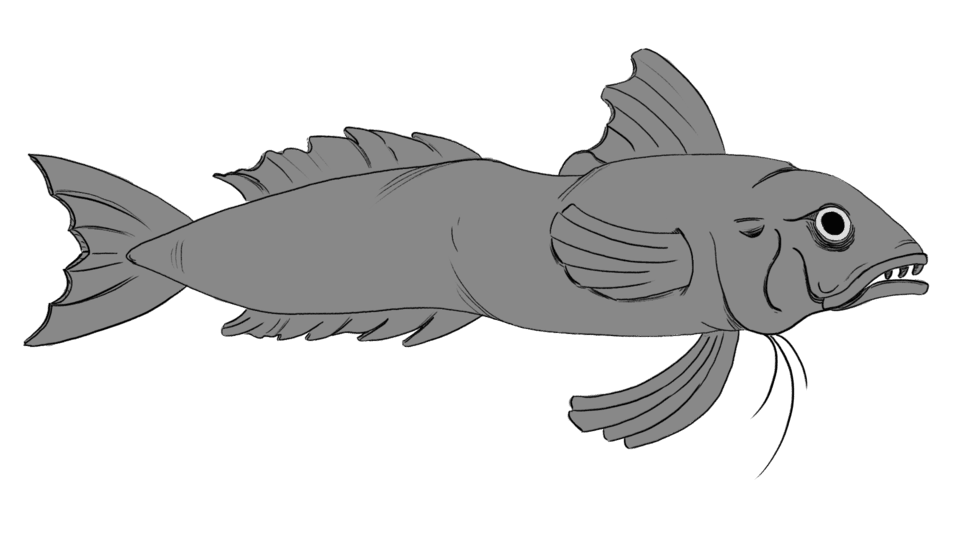
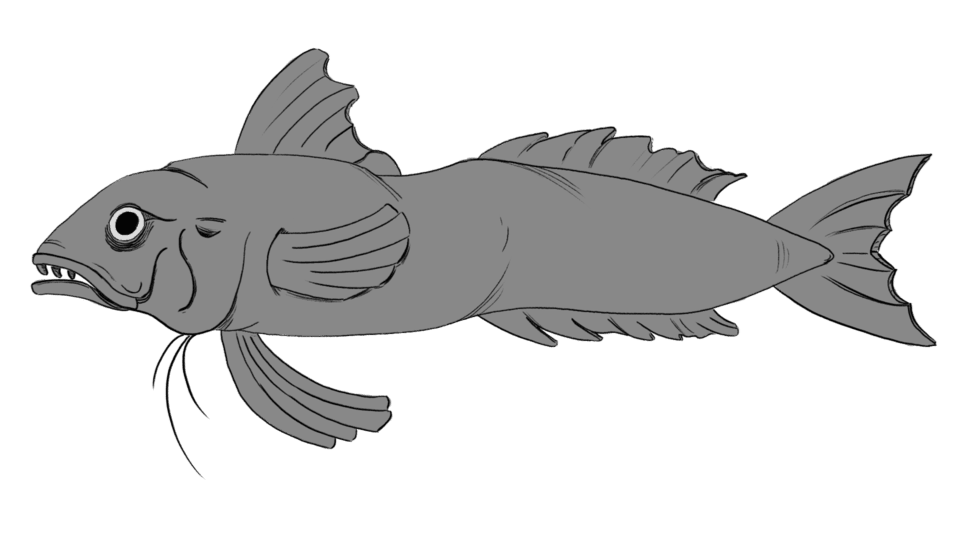
changed fish position

Changed region(s): [[0.0, 0.0889, 1.0, 0.8296], [0.25, 0.4444, 0.2812, 0.5333], [0.7188, 0.4444, 0.75, 0.5037]]

diff --git a/src/scenes/tutorial.js b/src/scenes/tutorial.js
@@ -280,7 +280,7 @@ export default class Tutorial extends Phaser.Scene {
 
     this.fish = this.add.image(
       width / 1.5,
-      height / 3,
+      height / 2.5,
       "fish"
     ).setDepth(102);
 
@@ -521,7 +521,7 @@ export default class Tutorial extends Phaser.Scene {
         fontSize: "28px",
         fontFamily: "Roboto",
         color: "#ffffff",
-        backgroundColor: "#000000dc",
+        backgroundColor: "#1d22a5c0",
         padding: { x: 40, y: 25 },
         align: "center",
         wordWrap: { width: width * 0.6 }
@@ -537,10 +537,10 @@ export default class Tutorial extends Phaser.Scene {
       duration: 3000,
       ease: "Power2",
       onComplete: () => {
-        this.time.delayedCall(500, () => {
-          this.cameras.main.fade(500, 0, 0, 0);
+        this.time.delayedCall(1000, () => {
+          this.cameras.main.fade(1000, 0, 0, 0);
 
-          this.time.delayedCall(500, () => {
+          this.time.delayedCall(1000, () => {
             this.scene.start("Shop");
           });
         });

diff --git a/src/scenes/shop.js b/src/scenes/shop.js
@@ -267,7 +267,7 @@ export default class Shop extends Phaser.Scene {
 
     this.fish = this.add.image(
     width / 1.5,
-    height / 3,
+    height / 2.5,
     this.currentBox.fishTexture || "fish"
   ).setDepth(102);
 